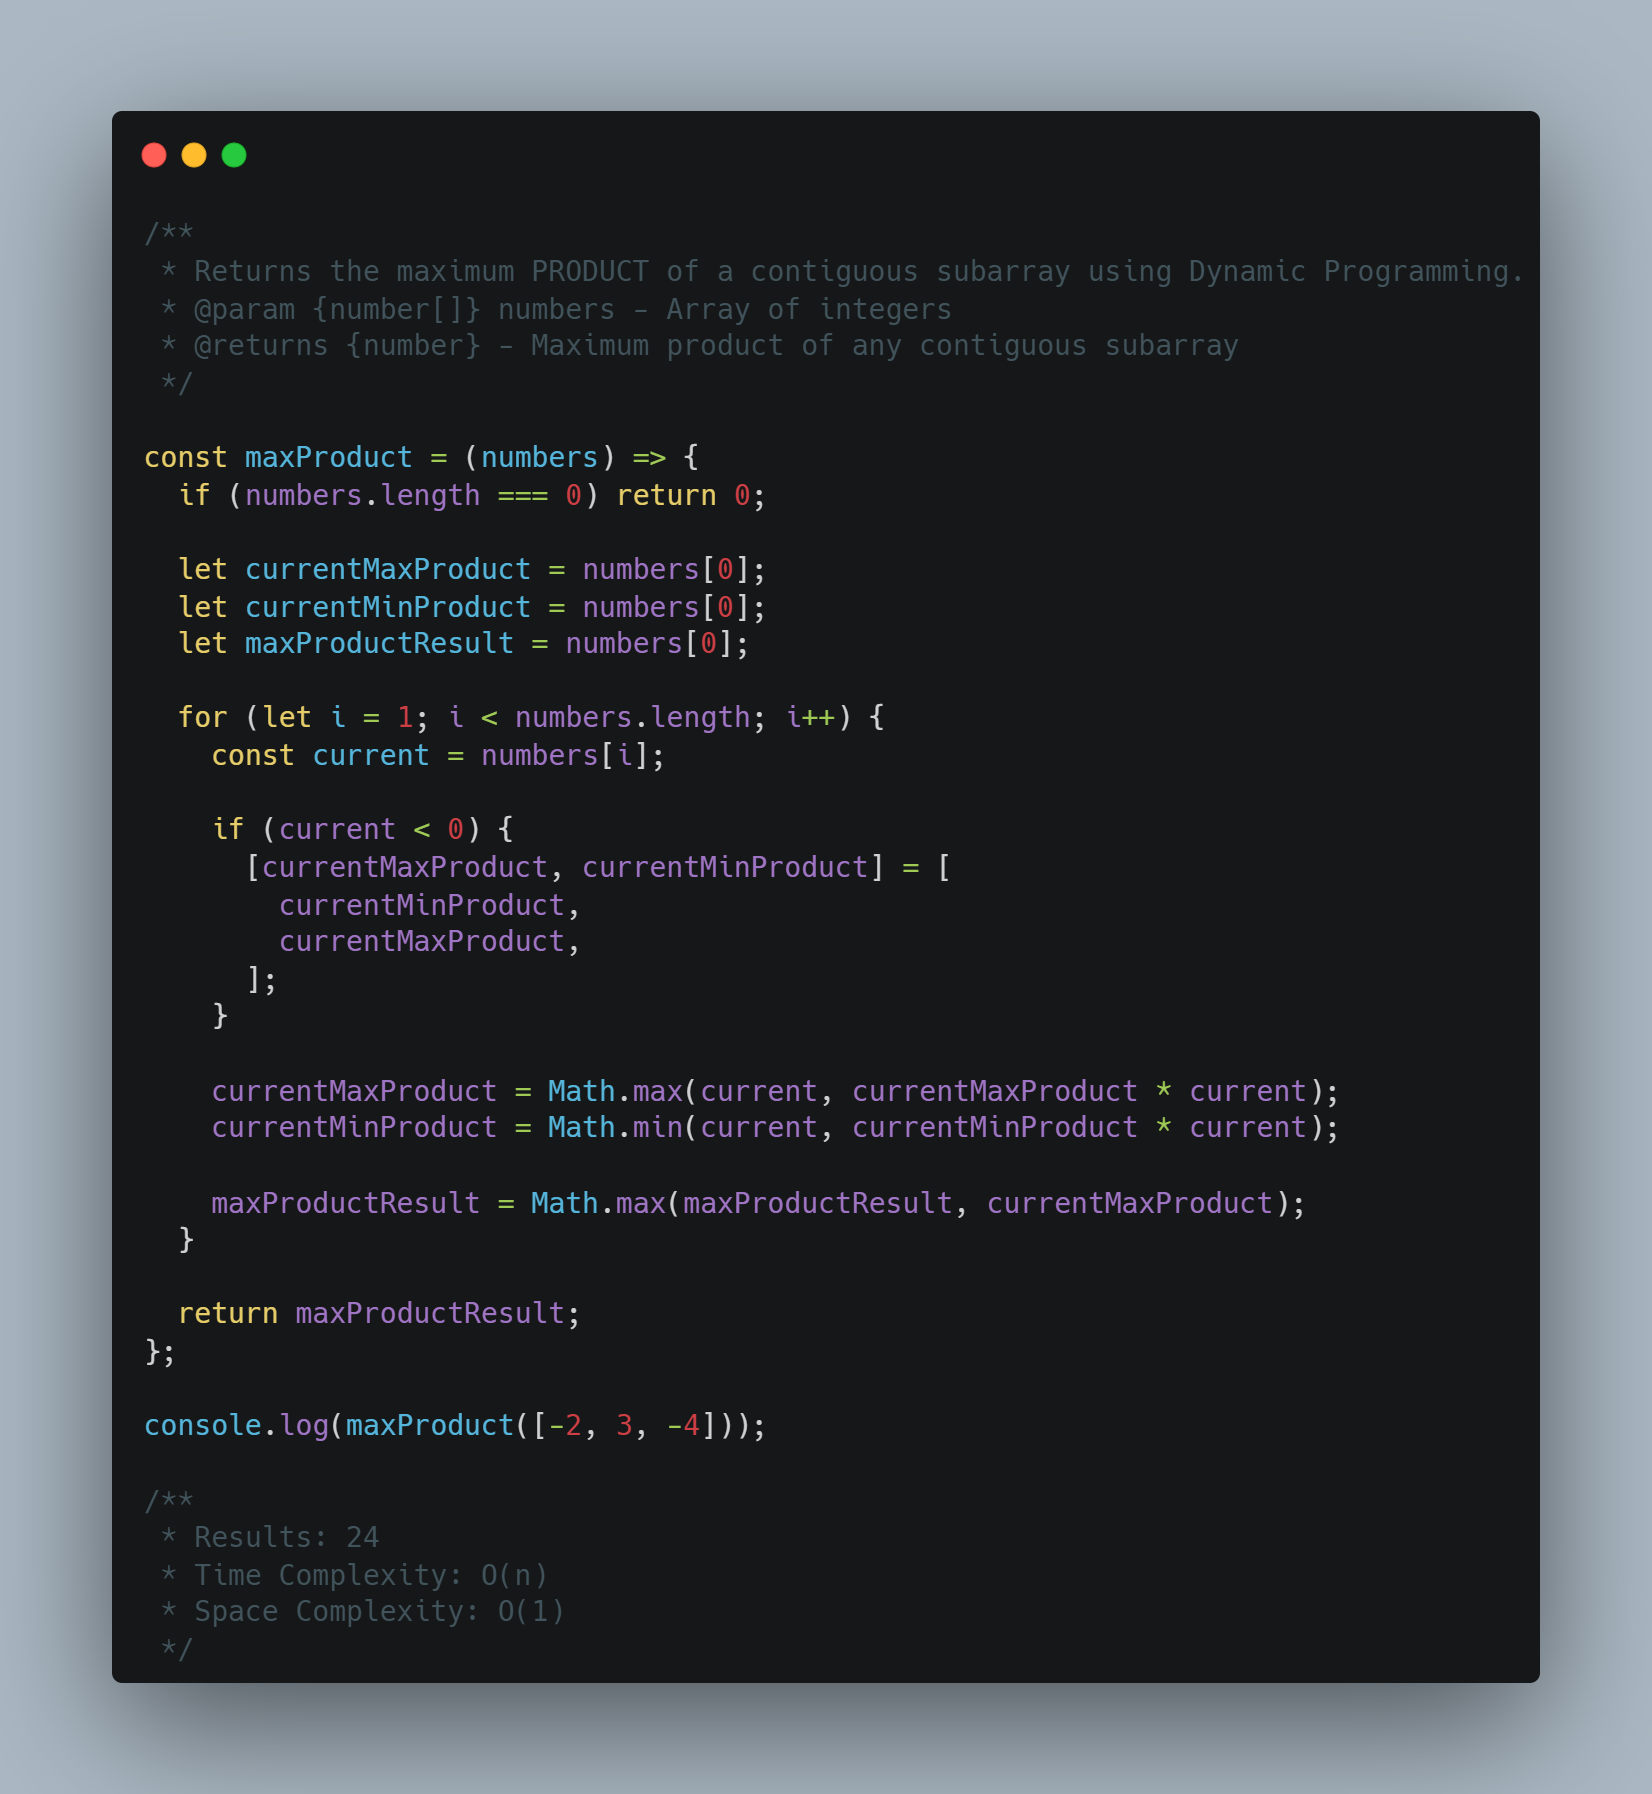
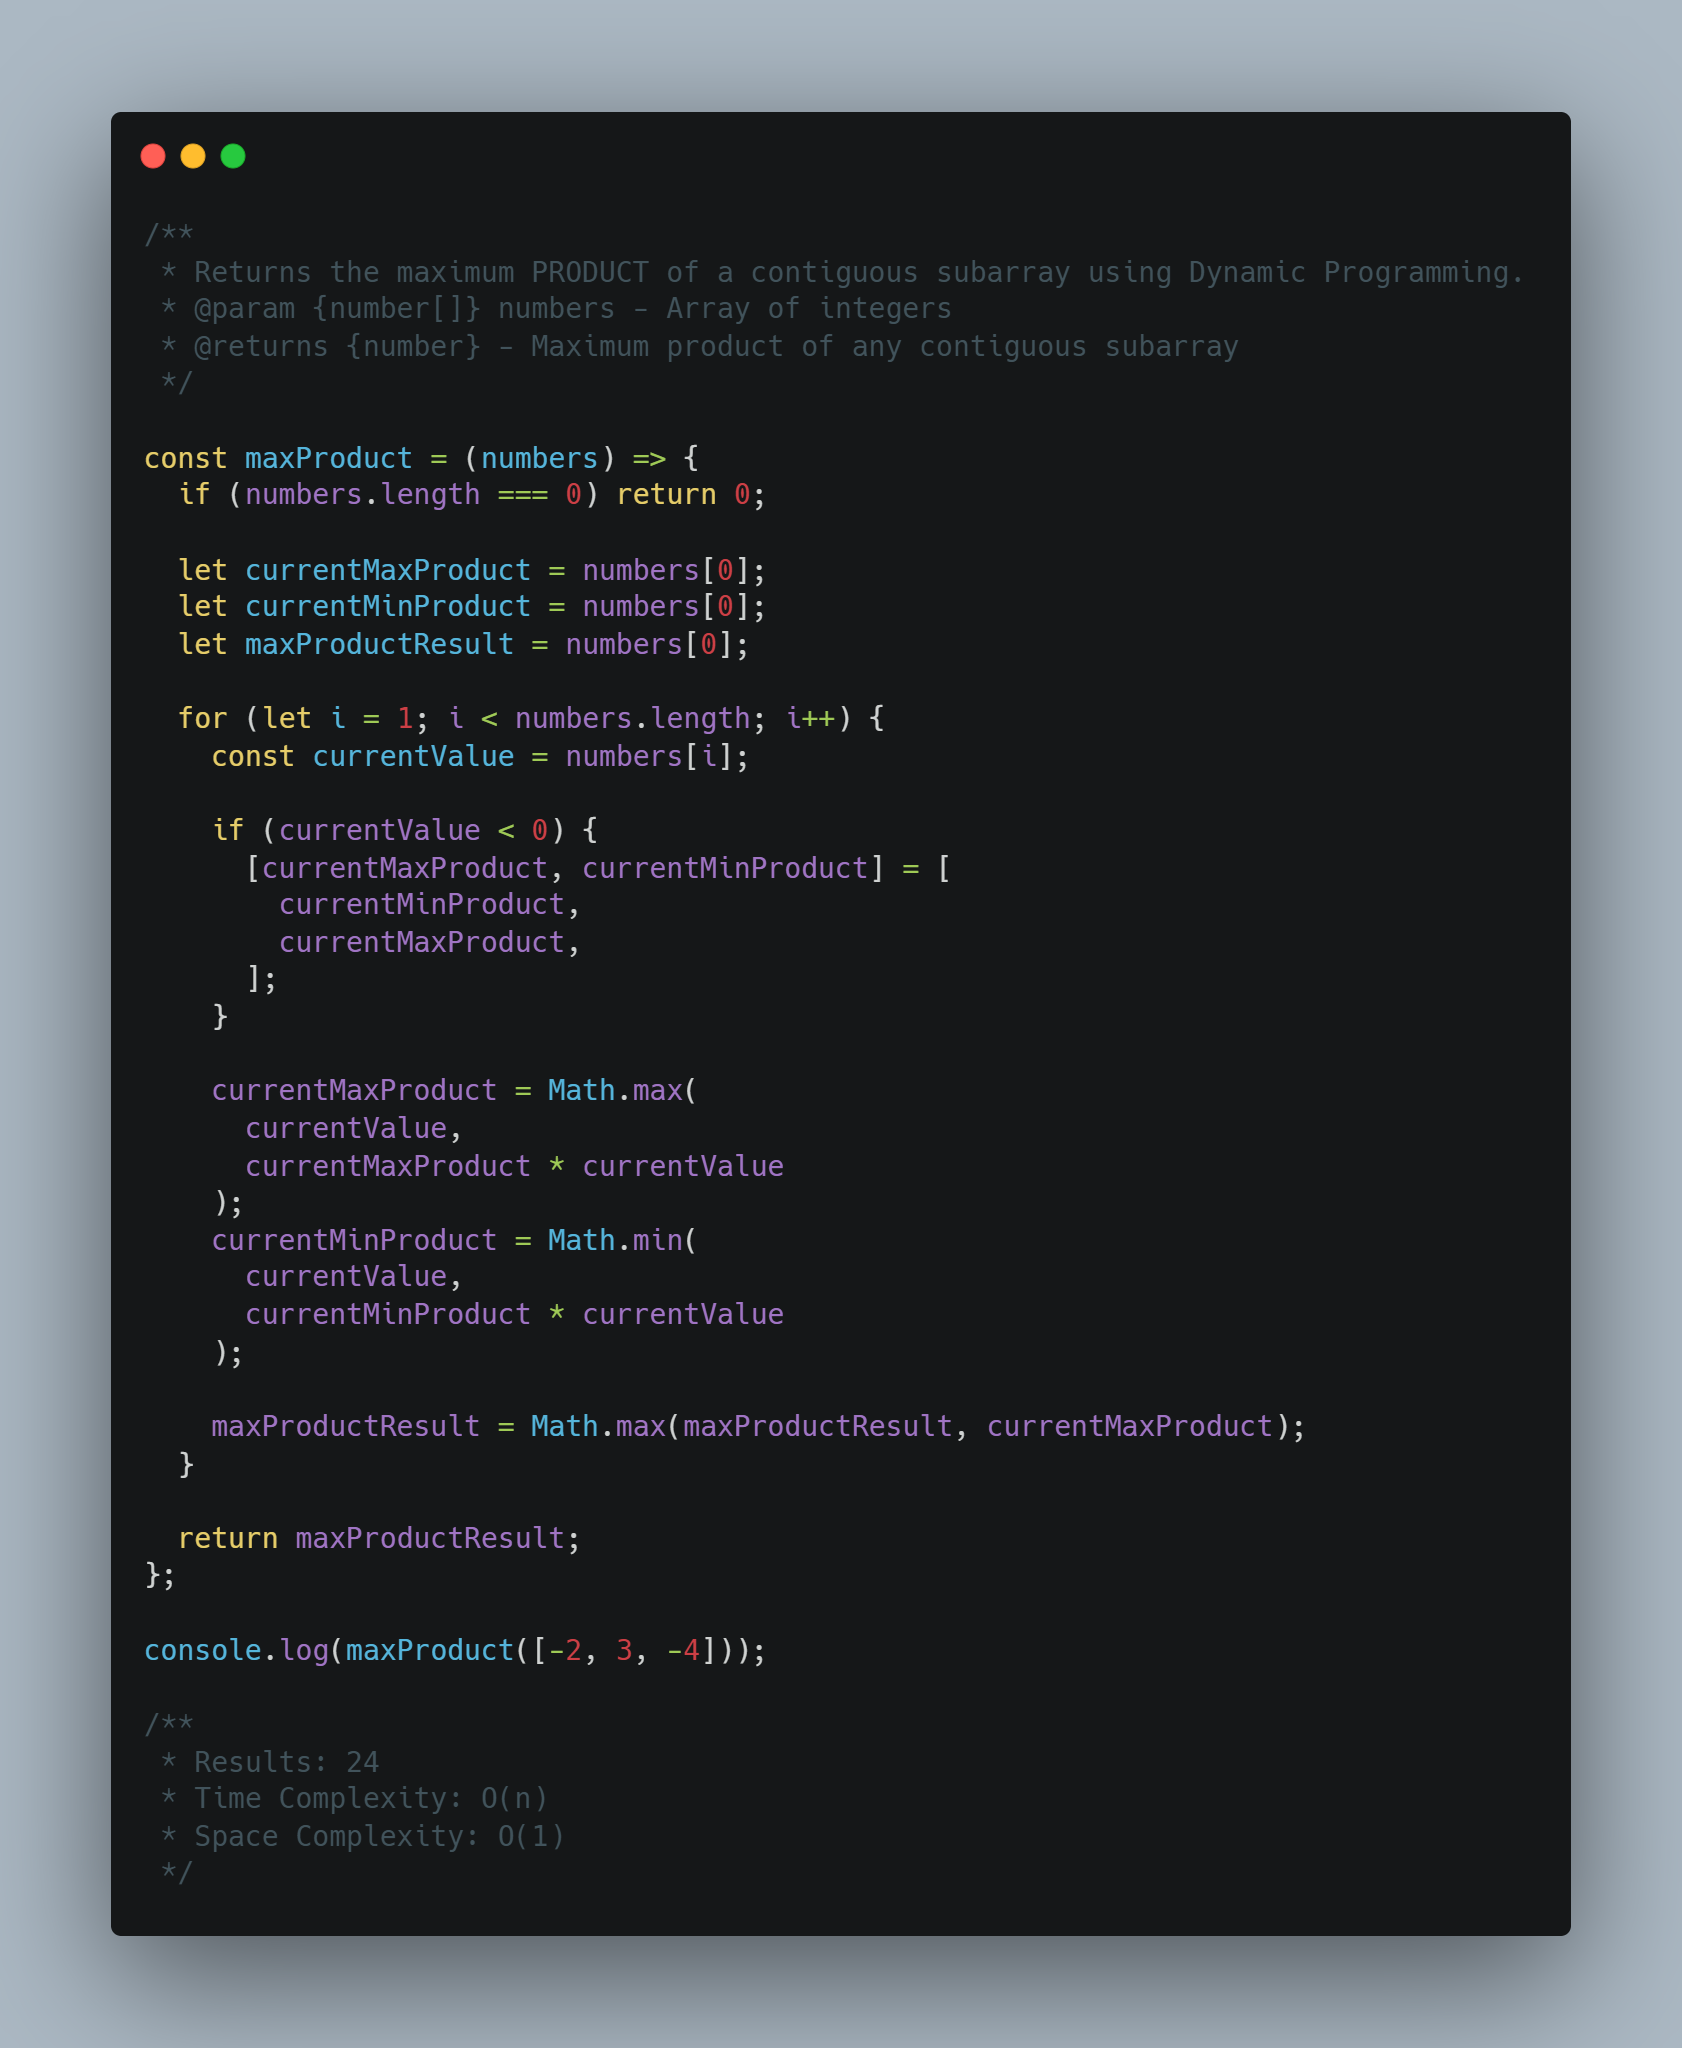
:memo: Fix - Leetcode: Maximum Product Subarray (Documentation)

diff --git a/leetcode/interview-questions/medium/array/maximum-product-subarray/maximum-product-subarray.js b/leetcode/interview-questions/medium/array/maximum-product-subarray/maximum-product-subarray.js
@@ -12,17 +12,23 @@ const maxProduct = (numbers) => {
   let maxProductResult = numbers[0];
 
   for (let i = 1; i < numbers.length; i++) {
-    const current = numbers[i];
+    const currentValue = numbers[i];
 
-    if (current < 0) {
+    if (currentValue < 0) {
       [currentMaxProduct, currentMinProduct] = [
         currentMinProduct,
         currentMaxProduct,
       ];
     }
 
-    currentMaxProduct = Math.max(current, currentMaxProduct * current);
-    currentMinProduct = Math.min(current, currentMinProduct * current);
+    currentMaxProduct = Math.max(
+      currentValue,
+      currentMaxProduct * currentValue
+    );
+    currentMinProduct = Math.min(
+      currentValue,
+      currentMinProduct * currentValue
+    );
 
     maxProductResult = Math.max(maxProductResult, currentMaxProduct);
   }

diff --git a/leetcode/the_blind_75-leetcode_challenge/maximum-product-subarray/maximum-product-subarray.js b/leetcode/the_blind_75-leetcode_challenge/maximum-product-subarray/maximum-product-subarray.js
@@ -12,17 +12,23 @@ const maxProduct = (numbers) => {
   let maxProductResult = numbers[0];
 
   for (let i = 1; i < numbers.length; i++) {
-    const current = numbers[i];
+    const currentValue = numbers[i];
 
-    if (current < 0) {
+    if (currentValue < 0) {
       [currentMaxProduct, currentMinProduct] = [
         currentMinProduct,
         currentMaxProduct,
       ];
     }
 
-    currentMaxProduct = Math.max(current, currentMaxProduct * current);
-    currentMinProduct = Math.min(current, currentMinProduct * current);
+    currentMaxProduct = Math.max(
+      currentValue,
+      currentMaxProduct * currentValue
+    );
+    currentMinProduct = Math.min(
+      currentValue,
+      currentMinProduct * currentValue
+    );
 
     maxProductResult = Math.max(maxProductResult, currentMaxProduct);
   }
